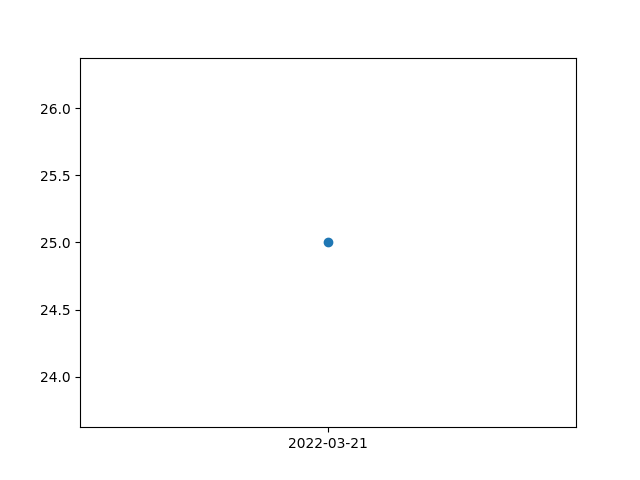
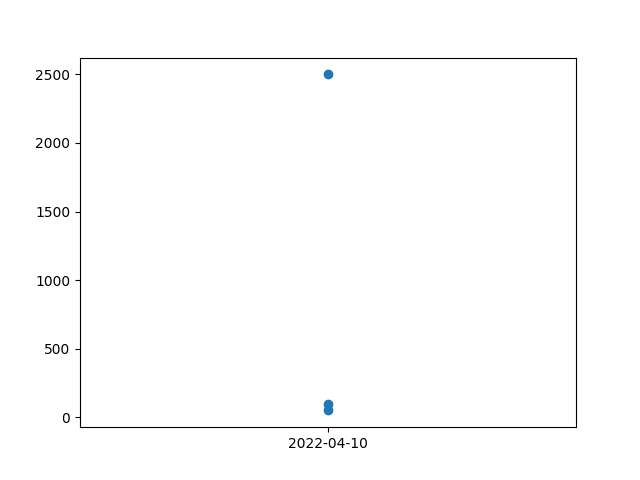
Final

diff --git a/static/dashboard.css b/static/dashboard.css
@@ -1,6 +1,6 @@
 @import url("https://fonts.googleapis.com/css?family=Muli&display=swap");
 .header {
-  background-color: #f5bb1d;
+  background-color: #1daaf5;
   /* background-color: rgb(105, 188, 216); */
   margin: auto -16px;
   padding: 16px 32px;

diff --git a/mainApp.py b/mainApp.py
@@ -323,7 +323,6 @@ def viewT(user_id, user_name, tracker_id, tracker_name):
     plt.clf()
     plt.scatter(tracker_log, tracker_values)
     plt.savefig('./static/hist.png')
-    
     return render_template('view-tracker.html', user_id= user_id, user_name=user_name, tracker_id= tracker_id, tracker_name=tracker_name, logListJson= logListJson,tracker_type= s)
 
 #ADD A LOG, ROUTE
@@ -332,6 +331,8 @@ def addLog(user_id, user_name, tracker_id, tracker_name):
     #response = requests.post(BASE + user_id+"/" +tracker_id +"/tracker_logs", {'tracker_value':True, 'tracker_note':'new log'})
     if request.method == 'POST':
        val, nts= request.form['value'], request.form['notes']
+       square_val=int(val)*int(val)
+       val=square_val
        requests.post(BASE + str(user_id) +"/" +str(tracker_id)+ "/tracker_logs", {'tracker_value':val, 'tracker_note':nts})
        return redirect(f'/{user_id}/{user_name}/{tracker_id}/{tracker_name}/tracker_logs')
     elif request.method == 'GET':
@@ -342,6 +343,8 @@ def addLog(user_id, user_name, tracker_id, tracker_name):
 def updateLog(user_id, user_name, tracker_id, log_id, tracker_name):
     if request.method == 'POST':
        val, nts= request.form['value'], request.form['notes']
+       square_val=int(val)*int(val)
+       val=square_val
        requests.put(f'{BASE}{user_id}/{tracker_id}/tracker_log/{log_id}', {'tracker_value':val, 'tracker_note':nts})
        return redirect(f'/{user_id}/{user_name}/{tracker_id}/{tracker_name}/tracker_logs')
     elif request.method == 'GET':
